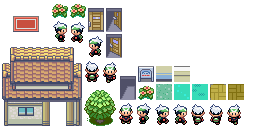
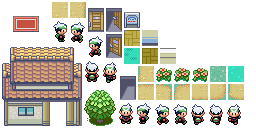
added graphics and cleaned code

Changed region(s): [[0.4688, 0.0938, 0.9688, 0.7812], [0.1875, 0.0, 0.3438, 0.1562]]

diff --git a/src/com/hydrozoa/pokemon/PokemonGame.java b/src/com/hydrozoa/pokemon/PokemonGame.java
@@ -85,8 +85,6 @@ public class PokemonGame extends Game {
 		assetManager.load("res/graphics_packed/tiles/tilepack.atlas", TextureAtlas.class);
 		assetManager.load("res/graphics_packed/ui/uipack.atlas", TextureAtlas.class);
 		assetManager.load("res/graphics_packed/battle/battlepack.atlas", TextureAtlas.class);
-		assetManager.load("res/grass1.png", Texture.class);
-		assetManager.load("res/grass2.png", Texture.class);
 		assetManager.load("res/graphics/pokemon/bulbasaur.png", Texture.class);
 		assetManager.load("res/graphics/pokemon/slowpoke.png", Texture.class);
 		
@@ -99,6 +97,7 @@ public class PokemonGame extends Game {
 			assetManager.load("res/graphics/transitions/transition_"+i+".png", Texture.class);
 		}
 		assetManager.load("res/font/small_letters_font.fnt", BitmapFont.class);
+		
 		assetManager.finishLoading();
 		
 		skin = SkinGenerator.generateSkin(assetManager);

diff --git a/src/com/hydrozoa/pokemon/model/TERRAIN.java b/src/com/hydrozoa/pokemon/model/TERRAIN.java
@@ -11,6 +11,16 @@ public enum TERRAIN {
 	INDOOR_TILES_SHADOW,
 	WALL_BOTTOM,
 	WALL_TOP,
+	
+	BROWN_PATH,
+	BROWN_PATH_GRASS_NORTH,
+	BROWN_PATH_GRASS_EAST,
+	BROWN_PATH_GRASS_SOUTH,
+	BROWN_PATH_GRASS_WEST,
+	BROWN_PATH_GRASS_NORTHEAST,
+	BROWN_PATH_GRASS_NORTHWEST,
+	BROWN_PATH_GRASS_SOUTHEAST,
+	BROWN_PATH_GRASS_SOUTHWEST,
 	;
 
 }

diff --git a/src/com/hydrozoa/pokemon/model/world/Door.java b/src/com/hydrozoa/pokemon/model/world/Door.java
@@ -31,14 +31,6 @@ public class Door extends WorldObject {
 		this.closeAnimation = closeAnimation;
 	}
 	
-//	public void setOpen() {
-//		this.state = STATE.OPEN;
-//	}
-//	
-//	public void setClosed() {
-//		this.state = STATE.CLOSED;
-//	}
-	
 	public void open() {
 		state = STATE.OPENING;
 	}
